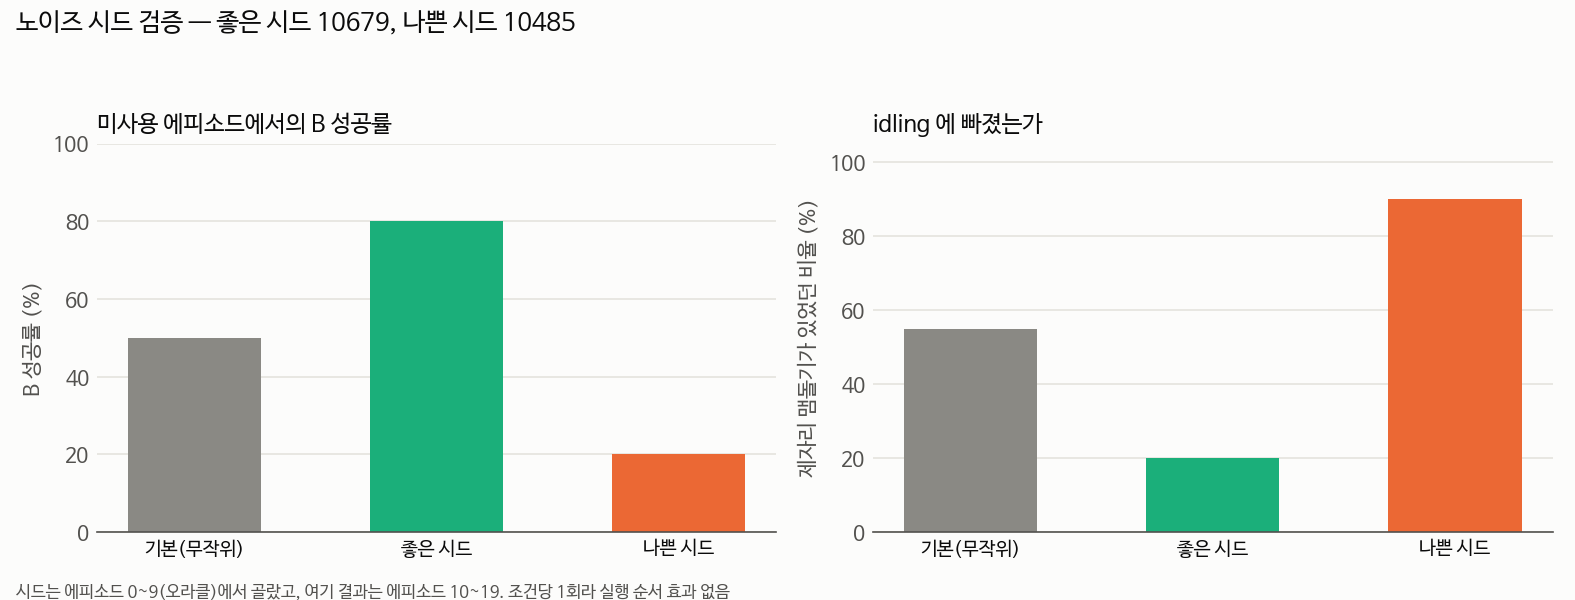
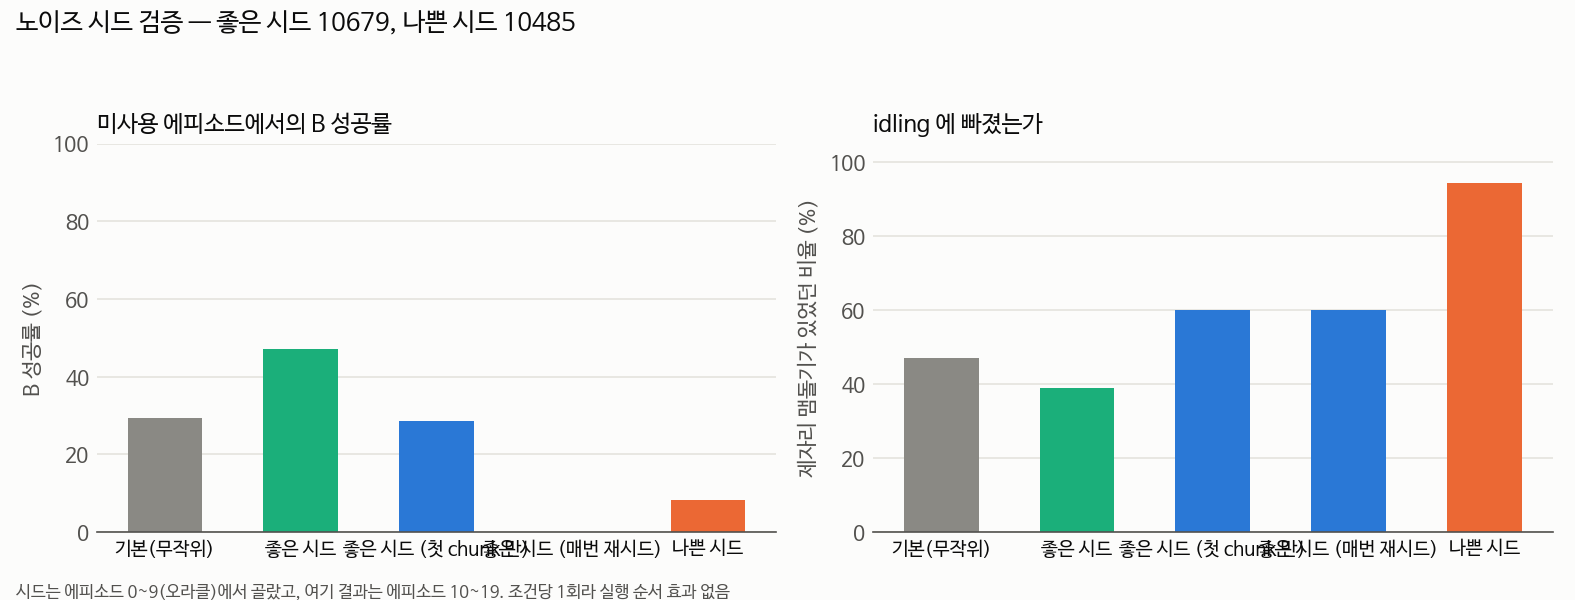
⭐ 노이즈 ablation — 첫 묶음만으론 무효, 완전 결정적이면 0%
- 첫 chunk 만 고정: 29% (기준선과 동일, 짝비교 6:6 p=1.00) → 이득은 순서 전체에서 나옴
- 매 추론마다 재시드(완전 결정적): 0% (0:10, p=0.002) → 즉시 맴돌기에 갇힘
- 추론 사이의 노이즈 변화가 진행에 필수. 무작위성은 잡음이 아니라 탈출 장치
- 나쁜 시드는 idling 94%

Changed region(s): [[0.56, 0.3, 0.9644, 0.93], [0.0622, 0.36, 0.4978, 0.93]]

diff --git a/04_실습/05_libero/noise_seed/README.md b/04_실습/05_libero/noise_seed/README.md
@@ -210,6 +210,44 @@ idling 정의: B 구간 안에 **2초 동안 끝단 이동 범위가 3cm 미만*
 | 셋 다 오름 | **장면과 무관**하게 좋은 노이즈가 있다 → 한 번 보정으로 끝 |
 | 셋 다 안 오름 | 쌍마다 달라 보정이 필요 → [DSRL](../../../02_논문노트/DSRL.md) |
 
+## 3-4. ⭐ ablation — 무엇이 이득을 만드나 (4쌍 전체, 각 ~35 에피소드)
+
+| 조건 | B 성공 | **idling** | vs 기본 짝 비교 | p |
+|---|---|---|---|---|
+| 기본 (매번 새 노이즈) | 29% (10/34) | 47% | — | — |
+| **좋은 시드** (순서 고정) | **47%** (17/36) | **39%** | 9 : 3 | 0.146 |
+| **첫 chunk 만 고정** | **29%** (10/35) | 60% | 6 : 6 | **1.000** |
+| **매 추론마다 재시드** (완전 결정적) | **0%** (0/35) | 60% | 0 : 10 | **0.002** |
+| 나쁜 시드 (순서 고정) | 8% (3/36) | **94%** | 1 : 8 | 0.039 |
+
+**두 가지가 결정적입니다.**
+
+### ① 첫 동작 묶음만으로는 아무 차이가 없다
+
+첫 chunk 에만 좋은 시드를 쓰고 그 뒤를 무작위로 돌리면 **기준선과 똑같습니다** (29%, 짝 비교 6:6, p=1.00).
+즉 이득은 **"첫 판단이 좋아서"가 아니라 노이즈 순서 전체**에서 나옵니다.
+
+### ② 완전히 결정적인 정책은 0% 다
+
+매 추론마다 **같은** 노이즈를 쓰면 성공률이 **0%** 로 무너집니다 (0:10, p=0.002).
+
+```
+같은 상태 + 같은 노이즈  →  같은 동작  →  같은 상태  →  같은 동작 → ...
+                                          └── 즉시 맴돌기 ──┘
+```
+
+**추론 사이의 노이즈 변화가 진행 자체에 필수**라는 뜻입니다.
+flow matching 정책의 무작위성은 "어쩔 수 없는 잡음"이 아니라 **국소적으로 갇히지 않게 해 주는 장치**입니다.
+
+정리하면:
+
+| | 노이즈 변화 | 결과 |
+|---|---|---|
+| 매번 같은 노이즈 | 없음 | **0%** — 즉시 갇힘 |
+| 무작위 (기본) | 있음 (무작위) | 29% |
+| **좋은 순서** | 있음 (고정된 좋은 순서) | **47%** |
+| 나쁜 순서 | 있음 (고정된 나쁜 순서) | 8%, idling 94% |
+
 ## 4. ❌ 결정적 결과 — 좋은 노이즈는 쌍마다 다르다 (고정 시드는 안 된다)
 
 시드는 8→7 / 4→7 / 1→5 / 2→5 에서 골랐습니다. **A 로 한 번도 쓰지 않은 태스크**로 검증했습니다.
